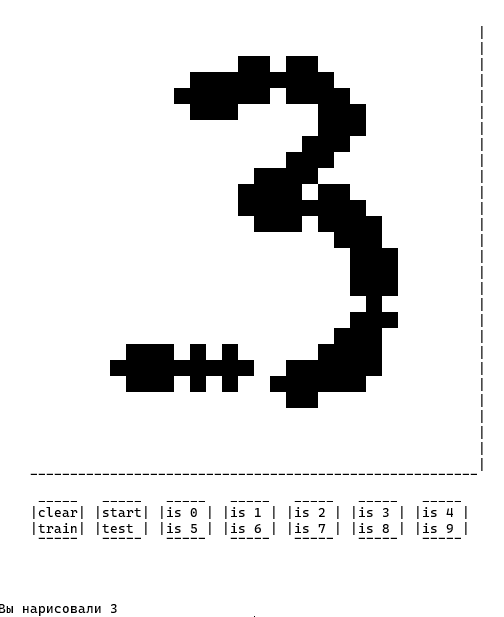
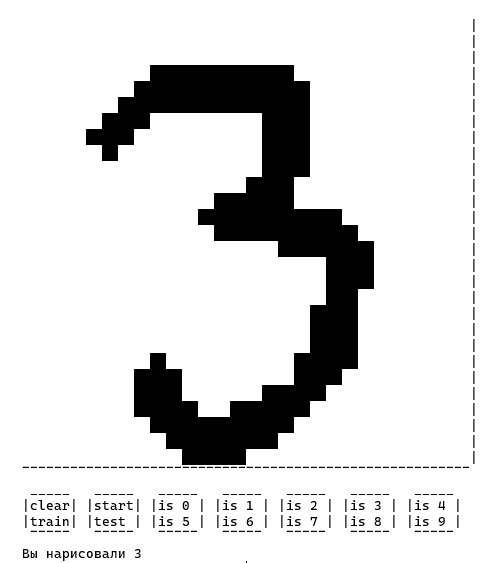
Обновил изображение и вывод

Changed region(s): [[0.0, 0.0302, 0.9697, 0.9964], [0.4848, 0.9964, 0.5152, 1.0]]

diff --git a/matrixpaint.cpp b/matrixpaint.cpp
@@ -76,7 +76,7 @@ void print_holst_and_matrix(std::vector<std::vector<int>> &matrix_holst)
         i++;
     }
     string_holst += bot_border;
-    std::cout << string_holst + buttons + top_board + '\0';
+    std::cout << string_holst + buttons + '\0';
 }
 
 bool check_holst(std::vector<std::vector<int>> &matrix_holst, POINT &cursorPos)
@@ -113,20 +113,20 @@ bool check_holst(std::vector<std::vector<int>> &matrix_holst, POINT &cursorPos)
                 else if ((cursorPos.x <= 40 + 60 * 2))
                 {
                     button_pressed = true;
-                    std::cout << "  Вы нарисовали " << GetResult(matrix_weight_layer, matrix_holst) << "\n";
+                    std::cout << "    Вы нарисовали " << GetResult(matrix_weight_layer, matrix_holst) << "\n";
                     system("pause");
                 }
                 else if ((cursorPos.x <= 40 + 60 * 3))
                 {
                     button_pressed = true;
-                    std::cout << "Обученна\n";
+                    std::cout << "    Обученна\n";
                     Traning(matrix_weight_layer, matrix_holst, 0, learning_rate);
                     SaveWeights(matrix_weight_layer, "weight_layer");
                 }
                 else if ((cursorPos.x <= 40 + 60 * 4))
                 {
                     button_pressed = true;
-                    std::cout << "Обученна\n";
+                    std::cout << "    Обученна\n";
                     Traning(matrix_weight_layer, matrix_holst, 1, learning_rate);
                     SaveWeights(matrix_weight_layer, "weight_layer");
                     system("pause");
@@ -134,7 +134,7 @@ bool check_holst(std::vector<std::vector<int>> &matrix_holst, POINT &cursorPos)
                 else if ((cursorPos.x <= 40 + 60 * 5))
                 {
                     button_pressed = true;
-                    std::cout << "Обученна\n";
+                    std::cout << "    Обученна\n";
                     Traning(matrix_weight_layer, matrix_holst, 2, learning_rate);
                     SaveWeights(matrix_weight_layer, "weight_layer");
                     system("pause");
@@ -142,7 +142,7 @@ bool check_holst(std::vector<std::vector<int>> &matrix_holst, POINT &cursorPos)
                 else if ((cursorPos.x <= 40 + 60 * 6))
                 {
                     button_pressed = true;
-                    std::cout << "Обученна\n";
+                    std::cout << "    Обученна\n";
                     Traning(matrix_weight_layer, matrix_holst, 3, learning_rate);
                     SaveWeights(matrix_weight_layer, "weight_layer");
                     system("pause");
@@ -150,7 +150,7 @@ bool check_holst(std::vector<std::vector<int>> &matrix_holst, POINT &cursorPos)
                 else if ((cursorPos.x <= 40 + 60 * 7))
                 {
                     button_pressed = true;
-                    std::cout << "Обученна\n";
+                    std::cout << "    Обученна\n";
                     Traning(matrix_weight_layer, matrix_holst, 4, learning_rate);
                     SaveWeights(matrix_weight_layer, "weight_layer");
                     system("pause");
@@ -183,7 +183,7 @@ bool check_holst(std::vector<std::vector<int>> &matrix_holst, POINT &cursorPos)
                         //     epoch++;
                         // } while (TestingOnImages(matrix_weight_layer, COUNT_IMAGES, "train") != 100);
                     }
-                    std::cout << "Эпоха " << epoch;
+                    std::cout << "    Эпоха " << epoch;
 
                     SaveWeights(matrix_weight_layer, "weight_layer");
                     system("pause");
@@ -192,13 +192,13 @@ bool check_holst(std::vector<std::vector<int>> &matrix_holst, POINT &cursorPos)
                 {
                     button_pressed = true;
                     float last = TestingOnImages(matrix_weight_layer, COUNT_IMAGES);
-                    std::cout << "Процент правильных ответов при тестировании на " << COUNT_IMAGES * 10 << "  " << last << "\n";
+                    std::cout << "    Процент правильных ответов при тестировании на " << COUNT_IMAGES * 10 << "  " << last << "\n";
                     system("pause");
                 }
                 else if ((cursorPos.x <= 40 + 60 * 3))
                 {
                     button_pressed = true;
-                    std::cout << "Обученна\n";
+                    std::cout << "    Обученна\n";
                     Traning(matrix_weight_layer, matrix_holst, 5, learning_rate);
                     SaveWeights(matrix_weight_layer, "weight_layer");
                     system("pause");
@@ -206,7 +206,7 @@ bool check_holst(std::vector<std::vector<int>> &matrix_holst, POINT &cursorPos)
                 else if ((cursorPos.x <= 40 + 60 * 4))
                 {
                     button_pressed = true;
-                    std::cout << "Обученна\n";
+                    std::cout << "    Обученна\n";
                     Traning(matrix_weight_layer, matrix_holst, 6, learning_rate);
                     SaveWeights(matrix_weight_layer, "weight_layer");
                     system("pause");
@@ -214,7 +214,7 @@ bool check_holst(std::vector<std::vector<int>> &matrix_holst, POINT &cursorPos)
                 else if ((cursorPos.x <= 40 + 60 * 5))
                 {
                     button_pressed = true;
-                    std::cout << "Обученна\n";
+                    std::cout << "    Обученна\n";
                     Traning(matrix_weight_layer, matrix_holst, 7, learning_rate);
                     SaveWeights(matrix_weight_layer, "weight_layer");
                     system("pause");
@@ -222,7 +222,7 @@ bool check_holst(std::vector<std::vector<int>> &matrix_holst, POINT &cursorPos)
                 else if ((cursorPos.x <= 40 + 60 * 6))
                 {
                     button_pressed = true;
-                    std::cout << "Обученна\n";
+                    std::cout << "    Обученна\n";
                     Traning(matrix_weight_layer, matrix_holst, 8, learning_rate);
                     SaveWeights(matrix_weight_layer, "weight_layer");
                     system("pause");
@@ -230,7 +230,7 @@ bool check_holst(std::vector<std::vector<int>> &matrix_holst, POINT &cursorPos)
                 else if ((cursorPos.x <= 40 + 60 * 7))
                 {
                     button_pressed = true;
-                    std::cout << "Обученна\n";
+                    std::cout << "    Обученна\n";
                     Traning(matrix_weight_layer, matrix_holst, 9, learning_rate);
                     SaveWeights(matrix_weight_layer, "weight_layer");
                     system("pause");